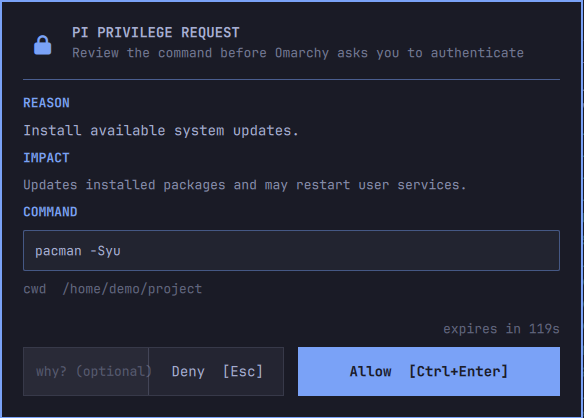
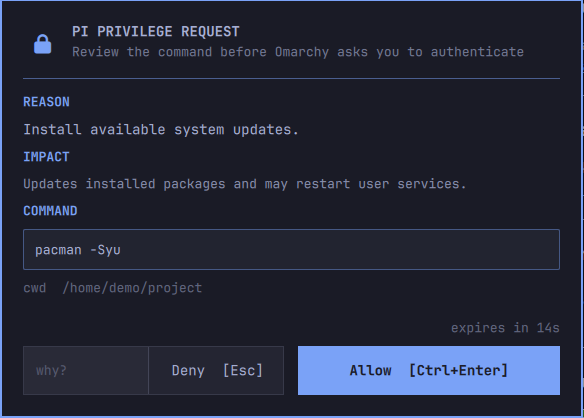
Trim denial prompt

diff --git a/omarchy/Service.qml b/omarchy/Service.qml
@@ -88,7 +88,7 @@ Item {
   IpcHandler {
     target: "io.github.adrunkhuman.pi-privileged-exec"
 
-    function version(): string { return "0.3.0" }
+    function version(): string { return "0.3.1" }
 
     function request(payloadJson: string): string {
       return root.begin(payloadJson)
@@ -422,7 +422,7 @@ Item {
               Text {
                 anchors.fill: denyFeedback
                 verticalAlignment: Text.AlignVCenter
-                text: "why? (optional)"
+                text: "why?"
                 color: Util.alpha(root.foreground, 0.36)
                 font.family: Style.fontFamily
                 font.pixelSize: Style.font.bodySmall

diff --git a/extension/install-omarchy.ts b/extension/install-omarchy.ts
@@ -6,7 +6,7 @@ import { dirname, join, resolve } from "node:path";
 import { fileURLToPath } from "node:url";
 
 export const IPC_TARGET = "io.github.adrunkhuman.pi-privileged-exec";
-const PLUGIN_VERSION = "0.3.0";
+const PLUGIN_VERSION = "0.3.1";
 
 const sourceDir = resolve(dirname(fileURLToPath(import.meta.url)), "../omarchy");
 const targetDir = join(homedir(), ".config/omarchy/plugins", IPC_TARGET);
